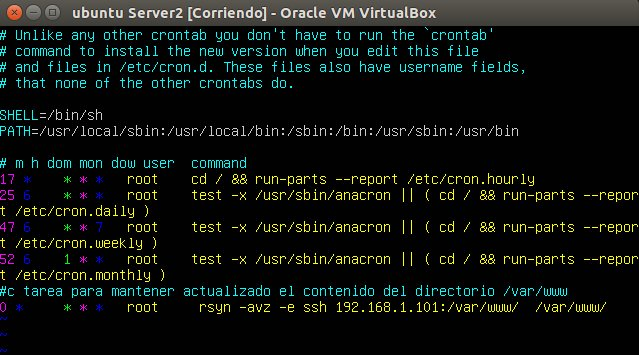
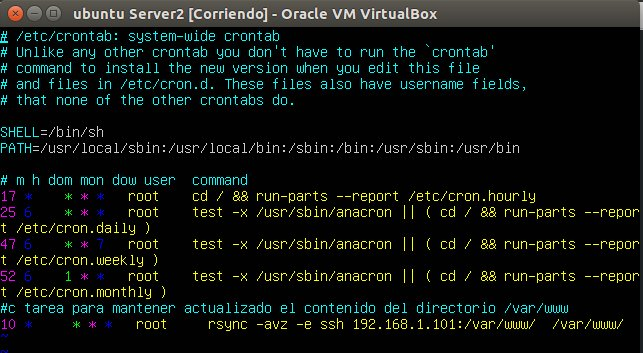
añadiendo los resultados de la configuración ssh

Changed region(s): [[0.0, 0.0, 1.0, 1.0]]

diff --git a/Practicas/practica_2.md b/Practicas/practica_2.md
@@ -1,8 +1,8 @@
-### Práctica 2
+##Práctica 2
 
 #### Objetivo
 En esta práctica el objetivo es configurar las máquinas virtuales para trabajar en modo espejo, consiguiendo que una máquina secundaria mantenga siempre actualizada la información que hay en la máquina servidora principal.
-#### Cuestiones a resolver
+####Cuestiones a resolver
 Hay que llevar a cabo las siguientes tareas:
 
 - Probar el funcionamiento de la copia de archivos por ssh
@@ -10,7 +10,7 @@ Hay que llevar a cabo las siguientes tareas:
 - Configuración de ssh para acceder sin que solicite contraseña
 - Establecer una tarea en cron que se ejecute cada hora para mantener actualizado el contenido del directorio /var/www entre las dos máquinas
 
-#### Resultados
+####Resultados
 
 - Copia de archivos por ssh
 
@@ -18,8 +18,7 @@ Hay que llevar a cabo las siguientes tareas:
 $ tar czf - /var/www/ | ssh 192.168.1.102 'cat > ~/tar.tgz'
 ```
 
-
-> ![imagen](https://github.com/marlenelis/SWAP1516/blob/master/images/p2_2.jpg)
+![imagen](https://github.com/marlenelis/SWAP1516/blob/master/images/p2_2.jpg)
 
 - Clonado de una carpeta
 
@@ -28,7 +27,7 @@ $ tar czf - /var/www/ | ssh 192.168.1.102 'cat > ~/tar.tgz'
 $ rsync -avz -e ssh 192.168.1.101:/var/www/ /var/www/
 ```
 
-> ![imagen](https://github.com/marlenelis/SWAP1516/blob/master/images/p2_1.jpg)
+![imagen](https://github.com/marlenelis/SWAP1516/blob/master/images/p2_1.jpg)
 
 
 - Configuración de ssh
@@ -39,7 +38,7 @@ $ rsync -avz -e ssh 192.168.1.101:/var/www/ /var/www/
 $ ssh-keygen -t dsa
 ```
 
-> ![imagen](https://github.com/marlenelis/SWAP1516/blob/master/images/p2_3.jpg)
+![imagen](https://github.com/marlenelis/SWAP1516/blob/master/images/p2_3.jpg)
 
 
 > Copiar la clave publica a la máquina principal.
@@ -47,24 +46,30 @@ $ ssh-keygen -t dsa
 ```sh
 $ ssh-copy-id -i .ssh/id_dsa.pub 192.168.1.101
 ```
-> ![imagen](https://github.com/marlenelis/SWAP1516/blob/master/images/p2_4.jpg)
+ ![imagen](https://github.com/marlenelis/SWAP1516/blob/master/images/p2_4.jpg)
 
 > Comprobar si se ha realizado la copia en la máquina principal.
-> ![imagen](https://github.com/marlenelis/SWAP1516/blob/master/images/p2_5.jpg)
+![imagen](https://github.com/marlenelis/SWAP1516/blob/master/images/p2_5.jpg)
 
-> Ahora ya podemos conectarnos a la máquina principal sin contraseña.
+> Se comprueba que se puede conectar a la máquina principal sin contraseña.
 
-> ![imagen](https://github.com/marlenelis/SWAP1516/blob/master/images/p2_6.jpg)
+ ![imagen](https://github.com/marlenelis/SWAP1516/blob/master/images/p2_6.jpg)
 
 - Establecer una tarea en cron (mantener actualizado el directorio /var/www/).
 
-  - editamos el fichero /etc/crontab y añadimos la siguiente línea al final.
+  - Se edita el fichero /etc/crontab y se añade la siguiente línea al final.
+
 
 ```sh
-  0 * * * * rsync -avz -e ssh <IP maquina>:/var/www/ /var/www/
+  10 * * * *  root rsync -avz -e ssh 192.168.1.101:/var/www/ /var/www/
 ```
 
-> ![imagen](https://github.com/marlenelis/SWAP1516/blob/master/images/p2_7.jpg)
+ ![imagen](https://github.com/marlenelis/SWAP1516/blob/master/images/p2_7.jpg)
 
+  - Por último comprobar la ejecución de la tarea
+   - se descarga una imagen y se guarda en el directorio /var/www/ de la máquina principal para modificar el estado y comprobar si se produce la actualización en la máquina secundaria.
 
+ ![imagen](https://github.com/marlenelis/SWAP1516/blob/master/images/p2_8.jpg)
+
+ ![imagen](https://github.com/marlenelis/SWAP1516/blob/master/images/p2_9.jpg)
 
